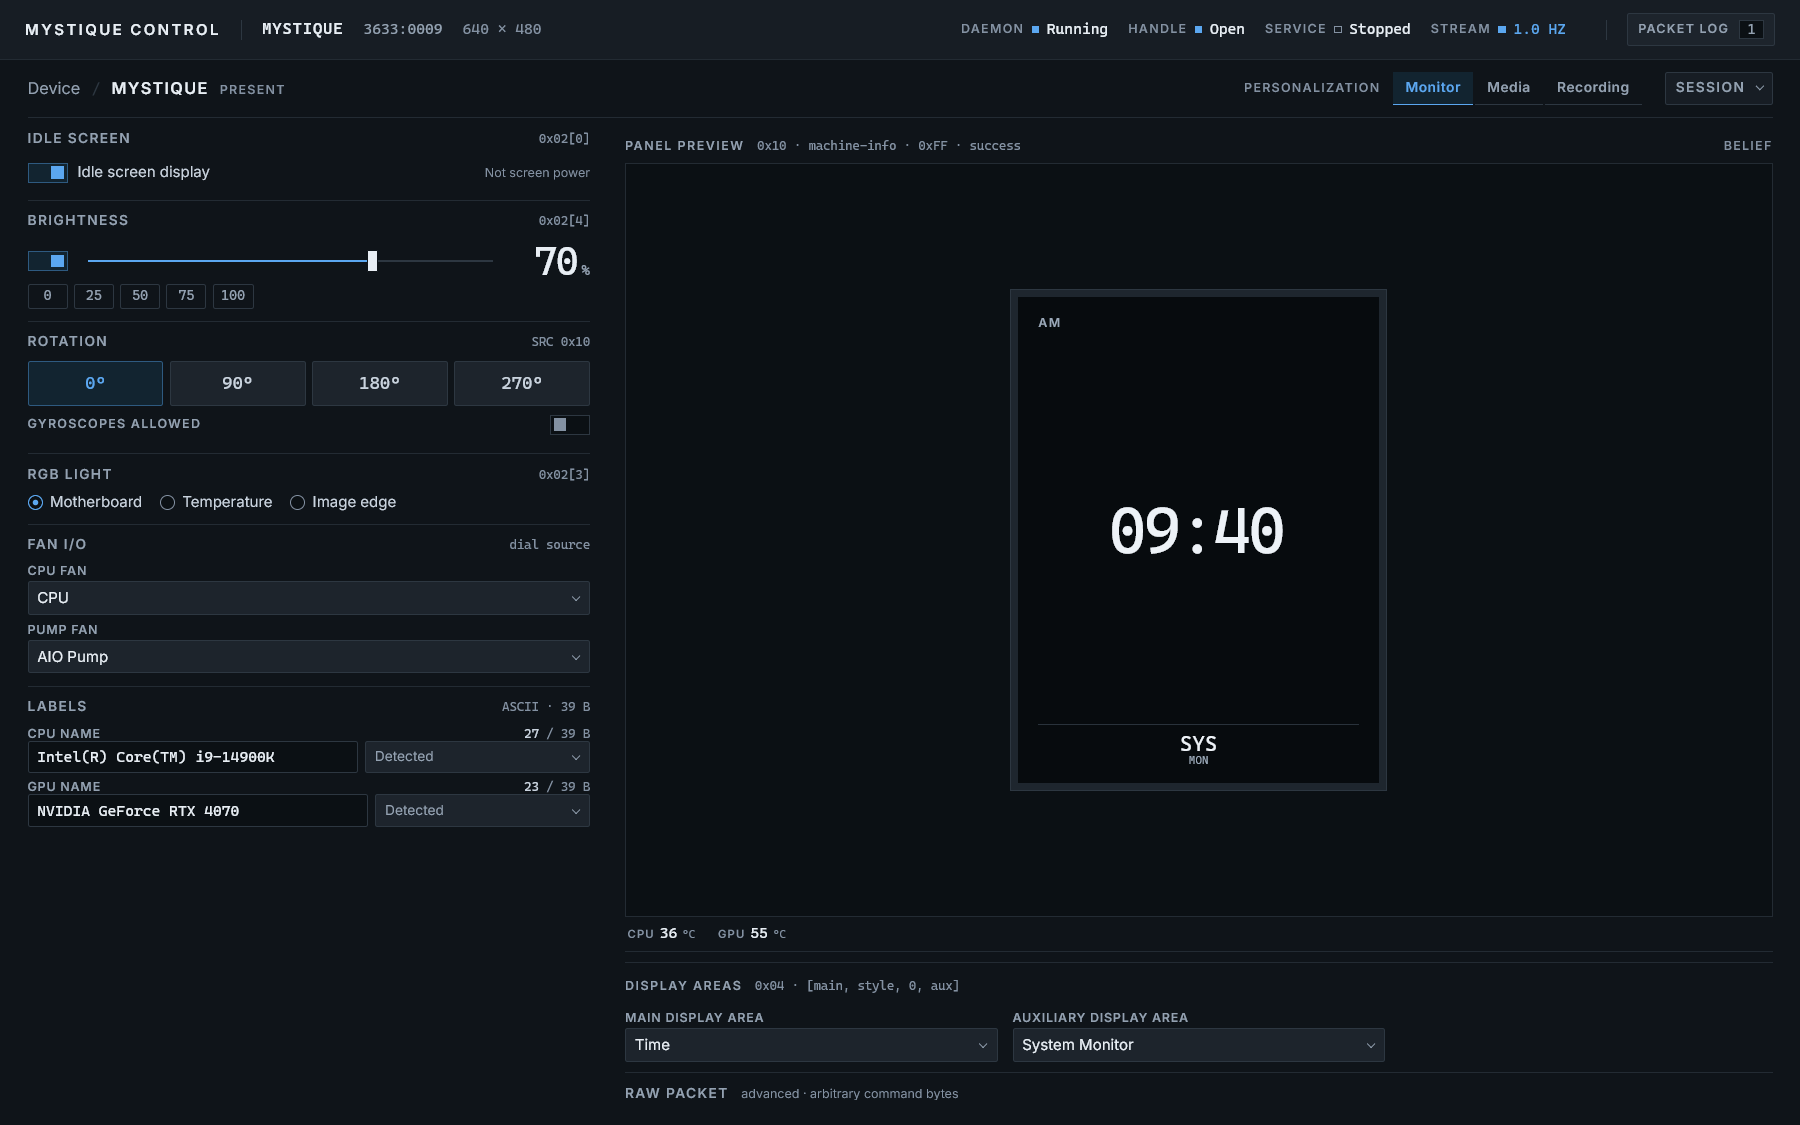
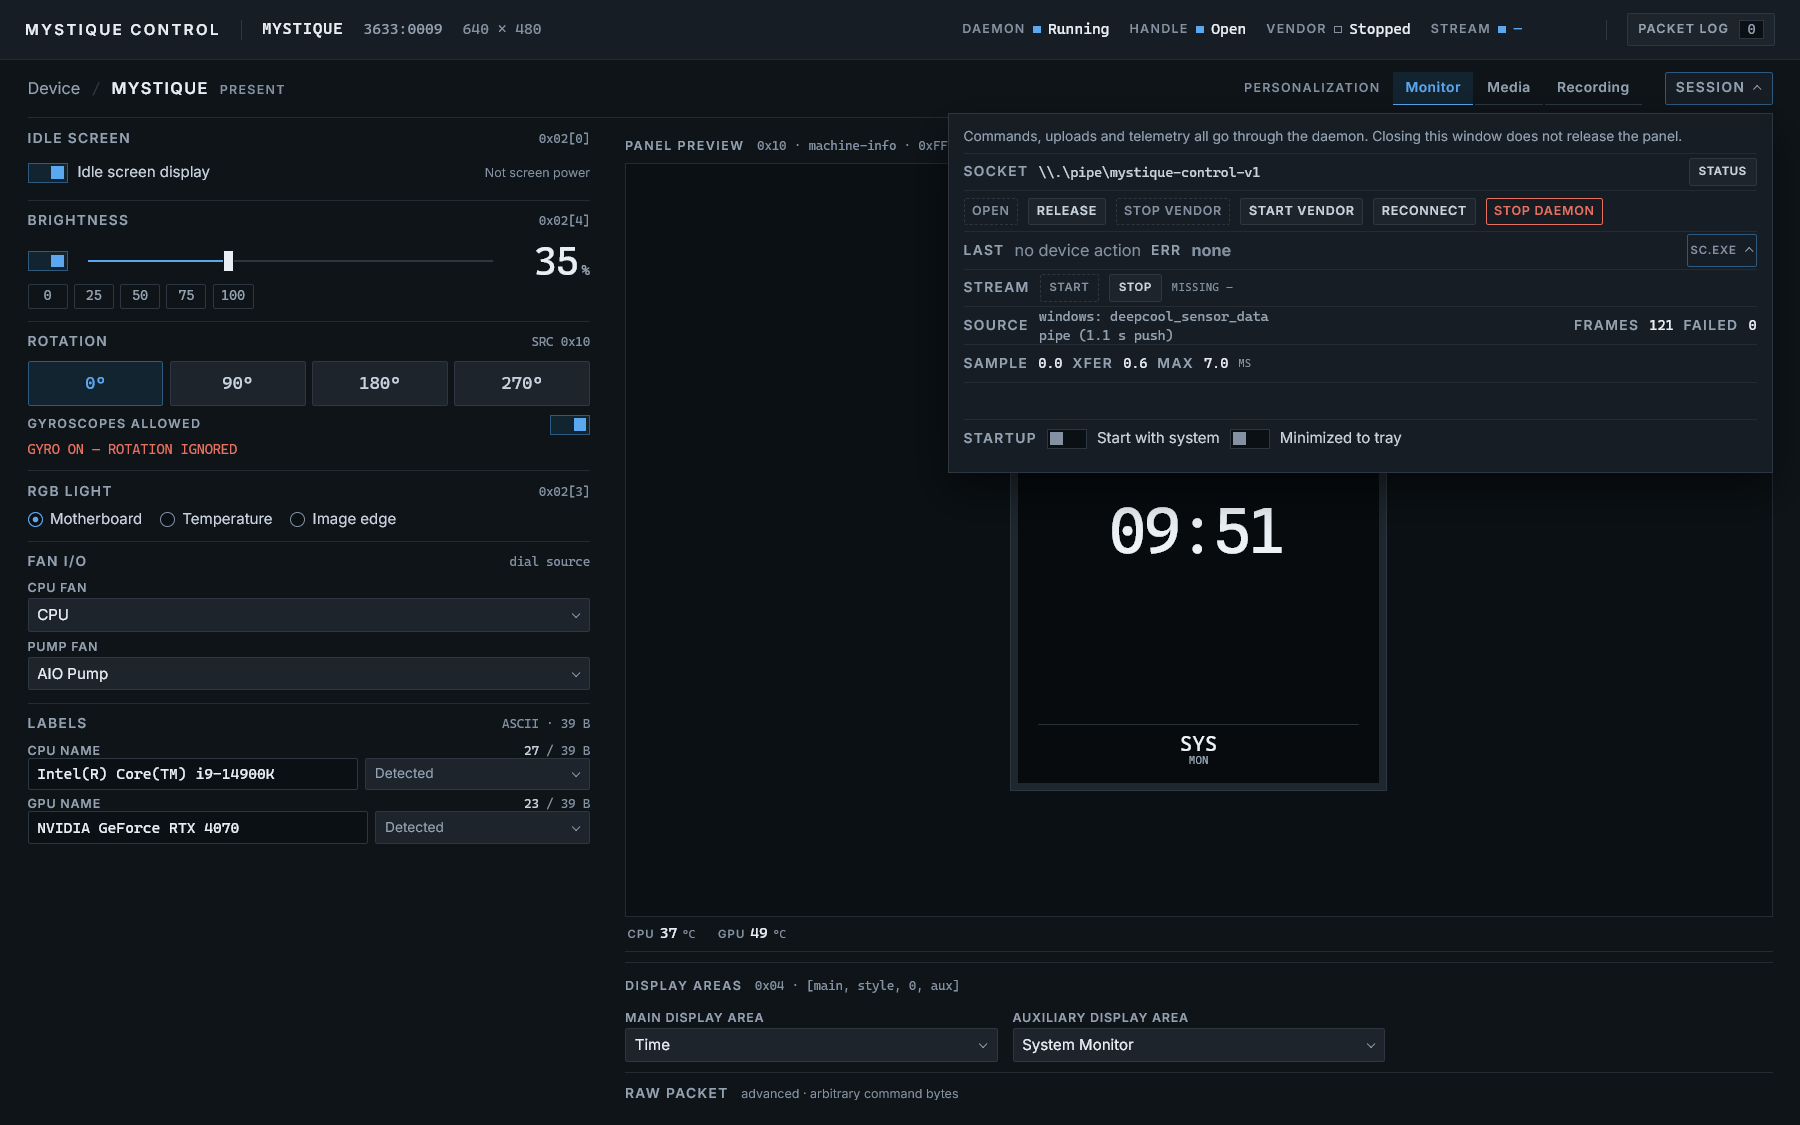
feat(ui): start with system, minimized start, unambiguous vendor lamp
Startup
- The session sheet gains "Start with system" and "Minimized to tray".
  Windows writes HKCU\Software\Microsoft\Windows\CurrentVersion\Run\MystiqueControl
  (no elevation, visible in Task Manager's Startup tab); Linux writes
  ~/.config/autostart/mystique-control.desktop.
- The OS entry is the source of truth: it is read back after every change, so
  removing it by hand is reflected the next time the sheet opens.
- `--minimized` starts hidden. The window is created invisible and only shown
  for a normal launch, so a login start never flashes the window; the tray icon
  is the only visible surface until it is clicked.

Status bar
- The lamp now reads VENDOR instead of SERVICE. It tracks MystiqueService, the
  vendor driver, and "Stopped" is the healthy state while our daemon owns the
  device — the old label read like our own service was down.

Verified through the running window: enabling wrote the Run value, the
minimized switch rewrote it with --minimized, disabling removed it (reg query
fails), and a --minimized launch left the window hidden with the tray present.
408 tests, clippy and fmt clean.

diff --git a/rust/apps/mystique-ui/ui/index.html b/rust/apps/mystique-ui/ui/index.html
@@ -16,7 +16,7 @@
   <span class="grow"></span>
   <div class="indic"><span class="sk">DAEMON</span><span class="lamp" id="daemon-dot"></span><span class="iv" id="daemon-status">Contacting</span></div>
   <div class="indic"><span class="sk">HANDLE</span><span class="lamp" id="handle-dot"></span><span class="iv" id="conn-device-open">unknown</span></div>
-  <div class="indic"><span class="sk">SERVICE</span><span class="lamp" id="service-dot"></span><span class="iv" id="conn-service-running">unknown</span></div>
+  <div class="indic"><span class="sk" title="MystiqueService — the vendor driver">VENDOR</span><span class="lamp" id="service-dot"></span><span class="iv" id="conn-service-running">unknown</span></div>
   <div class="indic" id="stream-badge"><span class="sk">STREAM</span><span class="lamp" id="stream-dot"></span><span class="iv" id="stream-word">—</span></div>
   <span class="vsep"></span>
   <button class="logtoggle" type="button" id="btn-log-toggle" aria-expanded="false" aria-controls="log-drawer">
@@ -83,6 +83,14 @@
           <div class="srow"><div class="sitmsg warn" id="daemon-conflict" hidden><b>Two owners</b><span id="daemon-conflict-text"></span></div><div class="sitmsg warn" id="conn-service-warning" hidden><b>Vendor service holds the device</b><span>stop it to open</span></div></div>
           <p class="sitmsg err" id="conn-error" role="alert" hidden></p>
           <p class="err" id="stream-error" role="alert" hidden></p>
+          <div class="srow">
+            <span class="sk">STARTUP</span>
+            <label class="switch small"><input id="startup-enabled" type="checkbox" aria-label="Start with system"><span class="track" aria-hidden="true"><span class="thumb"></span></span></label>
+            <span class="rowlabel">Start with system</span>
+            <label class="switch small"><input id="startup-minimized" type="checkbox" aria-label="Start minimized to tray"><span class="track" aria-hidden="true"><span class="thumb"></span></span></label>
+            <span class="rowlabel">Minimized to tray</span>
+          </div>
+          <p class="err" id="startup-error" role="alert" hidden></p>
         </div>
       </details>
     </div>

diff --git a/rust/apps/mystique-ui/ui/js/sections.js b/rust/apps/mystique-ui/ui/js/sections.js
@@ -1,7 +1,7 @@
 // Event wiring for the device page. Every control calls the real Tauri command;
 // failures stay inline in the group that caused them.
 
-import { runCommand } from './bridge.js';
+import { readCommand, runCommand } from './bridge.js';
 import { checkedValue, el, setChecked, setDisabled, setHidden, setText } from './dom.js';
 import {
   applyBrightness,
@@ -323,6 +323,38 @@ function bindErase() {
   });
 }
 
+// Startup toggles live in the session sheet. The OS entry is the source of truth: the
+// app reads it back after every change, so removing it by hand is reflected here.
+async function bindStartup() {
+  const enabled = el('startup-enabled');
+  const minimized = el('startup-minimized');
+  if (!enabled || !minimized) return;
+
+  const paint = (state) => {
+    if (!state) return;
+    enabled.checked = Boolean(state.enabled);
+    minimized.checked = Boolean(state.minimized);
+    minimized.disabled = !state.enabled;
+  };
+
+  paint(await readCommand('startup_get'));
+
+  const send = async () => {
+    const state = await runCommand(
+      'startup_set',
+      { enabled: enabled.checked, minimized: minimized.checked },
+      'startup',
+    );
+    paint(state);
+  };
+
+  enabled.addEventListener('change', () => {
+    minimized.disabled = !enabled.checked;
+    void send();
+  });
+  minimized.addEventListener('change', () => { void send(); });
+}
+
 export function bindSections() {
   bindConnection();
   bindBrightness();
@@ -330,6 +362,7 @@ export function bindSections() {
   bindGyro();
   bindIdleScreen();
   bindRgbMode();
+  bindStartup();
   bindFanIo();
   bindRecording();
   bindAreas();

diff --git a/rust/apps/mystique-ui/src/startup.rs b/rust/apps/mystique-ui/src/startup.rs
@@ -1,0 +1,186 @@
+//! Start-with-system and start-minimized, implemented where each OS expects it.
+//!
+//! Windows uses the per-user `Run` key, so no elevation is needed and the entry is
+//! visible in Task Manager's Startup tab like any other application. Linux writes an
+//! XDG autostart `.desktop` file. The window is hidden at launch when the saved command
+//! carries `--minimized`; the tray icon is the only visible surface in that case.
+//!
+//! The registry/file entry is the single source of truth: reading it back means the
+//! toggle cannot drift from reality if someone removes the entry by hand.
+
+use serde::Serialize;
+
+#[derive(Debug, Clone, Copy, PartialEq, Eq, Serialize)]
+pub struct StartupState {
+    pub enabled: bool,
+    pub minimized: bool,
+    /// False on platforms without an implementation; the UI disables the toggles.
+    pub supported: bool,
+}
+
+/// Only the fallback platform builds an "unsupported" value.
+#[cfg(not(any(windows, target_os = "linux")))]
+impl StartupState {
+    const fn unsupported() -> Self {
+        Self {
+            enabled: false,
+            minimized: false,
+            supported: false,
+        }
+    }
+}
+
+/// The command line written into the startup entry. Quoted because the install path
+/// contains spaces.
+fn launch_command(minimized: bool) -> Result<String, String> {
+    let exe =
+        std::env::current_exe().map_err(|error| format!("could not find this exe: {error}"))?;
+    let quoted = format!("\"{}\"", exe.display());
+    Ok(if minimized {
+        format!("{quoted} --minimized")
+    } else {
+        quoted
+    })
+}
+
+#[cfg(windows)]
+mod platform {
+    use std::process::Command;
+
+    use super::StartupState;
+
+    const RUN_KEY: &str = r"HKCU\Software\Microsoft\Windows\CurrentVersion\Run";
+    const VALUE: &str = "MystiqueControl";
+
+    pub fn read() -> StartupState {
+        let output = Command::new("reg")
+            .args(["query", RUN_KEY, "/v", VALUE])
+            .output();
+        let Ok(output) = output else {
+            return StartupState {
+                enabled: false,
+                minimized: false,
+                supported: true,
+            };
+        };
+        let enabled = output.status.success();
+        let text = String::from_utf8_lossy(&output.stdout);
+        StartupState {
+            enabled,
+            minimized: enabled && text.contains("--minimized"),
+            supported: true,
+        }
+    }
+
+    pub fn write(enabled: bool, minimized: bool) -> Result<(), String> {
+        let status = if enabled {
+            let command = super::launch_command(minimized)?;
+            Command::new("reg")
+                .args([
+                    "add", RUN_KEY, "/v", VALUE, "/t", "REG_SZ", "/d", &command, "/f",
+                ])
+                .status()
+        } else {
+            Command::new("reg")
+                .args(["delete", RUN_KEY, "/v", VALUE, "/f"])
+                .status()
+        };
+        match status {
+            Ok(status) if status.success() || !enabled => Ok(()),
+            Ok(status) => Err(format!("reg exited with {status}")),
+            Err(error) => Err(format!("could not run reg: {error}")),
+        }
+    }
+}
+
+#[cfg(target_os = "linux")]
+mod platform {
+    use std::fs;
+    use std::path::PathBuf;
+
+    use super::StartupState;
+
+    fn entry_path() -> Option<PathBuf> {
+        let base = std::env::var_os("XDG_CONFIG_HOME")
+            .map(PathBuf::from)
+            .or_else(|| std::env::var_os("HOME").map(|home| PathBuf::from(home).join(".config")))?;
+        Some(base.join("autostart").join("mystique-control.desktop"))
+    }
+
+    pub fn read() -> StartupState {
+        let Some(path) = entry_path() else {
+            return StartupState {
+                enabled: false,
+                minimized: false,
+                supported: true,
+            };
+        };
+        match fs::read_to_string(&path) {
+            Ok(text) => StartupState {
+                enabled: true,
+                minimized: text.contains("--minimized"),
+                supported: true,
+            },
+            Err(_) => StartupState {
+                enabled: false,
+                minimized: false,
+                supported: true,
+            },
+        }
+    }
+
+    pub fn write(enabled: bool, minimized: bool) -> Result<(), String> {
+        let path = entry_path().ok_or_else(|| "no XDG config directory".to_owned())?;
+        if !enabled {
+            match fs::remove_file(&path) {
+                Ok(()) => return Ok(()),
+                Err(error) if error.kind() == std::io::ErrorKind::NotFound => return Ok(()),
+                Err(error) => return Err(format!("could not remove {}: {error}", path.display())),
+            }
+        }
+        if let Some(parent) = path.parent() {
+            fs::create_dir_all(parent)
+                .map_err(|error| format!("could not create {}: {error}", parent.display()))?;
+        }
+        let command = super::launch_command(minimized)?;
+        let body = format!(
+            "[Desktop Entry]\nType=Application\nName=MYSTIQUE Control\nExec={command}\nX-GNOME-Autostart-enabled=true\n"
+        );
+        fs::write(&path, body)
+            .map_err(|error| format!("could not write {}: {error}", path.display()))
+    }
+}
+
+#[cfg(not(any(windows, target_os = "linux")))]
+mod platform {
+    use super::StartupState;
+
+    pub fn read() -> StartupState {
+        StartupState::unsupported()
+    }
+
+    pub fn write(_enabled: bool, _minimized: bool) -> Result<(), String> {
+        Err("start-with-system is not implemented on this platform".to_owned())
+    }
+}
+
+pub fn read() -> StartupState {
+    platform::read()
+}
+
+pub fn write(enabled: bool, minimized: bool) -> Result<(), String> {
+    platform::write(enabled, minimized)
+}
+
+#[cfg(test)]
+mod tests {
+    use super::*;
+
+    #[test]
+    fn the_launch_line_quotes_the_path_and_carries_the_flag() {
+        let plain = launch_command(false).unwrap();
+        let minimized = launch_command(true).unwrap();
+        assert!(plain.starts_with('"') && plain.ends_with('"'));
+        assert_eq!(minimized, format!("{plain} --minimized"));
+    }
+}

diff --git a/rust/apps/mystique-ui/src/main.rs b/rust/apps/mystique-ui/src/main.rs
@@ -16,6 +16,7 @@ mod daemon;
 mod error;
 mod events;
 mod service;
+mod startup;
 
 use app::AppState;
 use daemon::{Launcher, SpawnRecord};
@@ -42,6 +43,7 @@ fn main() {
         parts.notices,
     );
     let boot = state.clone();
+    let start_hidden = std::env::args().any(|argument| argument == "--minimized");
 
     let built = tauri::Builder::default()
         .plugin(tauri_plugin_dialog::init())
@@ -61,6 +63,14 @@ fn main() {
             );
 
             build_tray(app)?;
+
+            // The window is created hidden so a `--minimized` launch never flashes it.
+            // A normal launch shows it, exactly as before.
+            if !start_hidden {
+                if let Some(window) = app.get_webview_window("main") {
+                    let _ = window.show();
+                }
+            }
 
             // Starting the daemon is a blocking probe, so it never runs on the UI thread
             // or inside this hook. The Connection section shows "Contacting the daemon"
@@ -109,6 +119,8 @@ fn main() {
             commands::telemetry::stop_telemetry,
             commands::telemetry::set_stream_rate,
             commands::telemetry::telemetry_status,
+            commands::startup::startup_get,
+            commands::startup::startup_set,
             commands::upload::plan_upload,
             commands::upload::upload_image,
             commands::upload::upload_gif,

diff --git a/rust/apps/mystique-ui/src/commands/startup.rs b/rust/apps/mystique-ui/src/commands/startup.rs
@@ -1,0 +1,16 @@
+//! Startup toggles. The OS entry is the source of truth, so a change made outside the app
+//! is reflected the next time the sheet opens.
+
+use crate::startup::{self, StartupState};
+
+#[tauri::command]
+pub async fn startup_get() -> Result<StartupState, String> {
+    Ok(startup::read())
+}
+
+/// Writes the OS entry and returns what the OS now reports, not what was requested.
+#[tauri::command]
+pub async fn startup_set(enabled: bool, minimized: bool) -> Result<StartupState, String> {
+    startup::write(enabled, minimized)?;
+    Ok(startup::read())
+}

diff --git a/rust/apps/mystique-ui/src/commands/mod.rs b/rust/apps/mystique-ui/src/commands/mod.rs
@@ -12,6 +12,7 @@ pub mod erase;
 pub mod labels;
 pub mod raw;
 pub mod settings;
+pub mod startup;
 pub mod telemetry;
 pub mod upload;
 

diff --git a/rust/apps/mystique-ui/README.md b/rust/apps/mystique-ui/README.md
@@ -325,6 +325,9 @@ Session disclosure (closed by default; `details#session-details`):
   `stream-achieved`
 - `stream-sample`, `stream-transfer`, `stream-max` (milliseconds, one decimal)
 - `stream-missing`, `stream-error-note`, `stream-error`
+- `startup-enabled`, `startup-minimized` (switches), `startup-error` — write the OS
+  start-with-system entry; the entry is read back after every change, so removing it by
+  hand is reflected next time the sheet opens
 - `conn-error` (inline error)
 - `document.documentElement.dataset.daemon` carries the health code
 
@@ -561,10 +564,19 @@ real named pipe (created by the test) so the pipe name and presence probe cannot
 - Closing the window **does not stop the daemon**. A daemon spawned by the UI is left
   running with the panel held and the stream up; the next window connects to it. Use
   **Stop daemon** to release the panel and stop telemetry deliberately.
-- **Nothing starts at boot.** The UI has no startup entry and the daemon is not a Windows
-  service; `MystiqueService` is `Automatic`, so after a reboot the vendor stack owns the
-  panel again. Making this survive a reboot needs a startup entry plus the vendor service
-  set to `Manual` (or a real service wrapper for the daemon, which does not exist yet).
+- **Start with system** is a switch in the session sheet. Windows writes
+  `HKCU\Software\Microsoft\Windows\CurrentVersion\Run\MystiqueControl` (no elevation, and
+  it appears in Task Manager's Startup tab); Linux writes
+  `~/.config/autostart/mystique-control.desktop`. **Minimized to tray** appends
+  `--minimized` to that entry, and the window is created hidden so a login launch never
+  flashes it. The OS entry is read back after every change, so editing it outside the app
+  is reflected the next time the sheet opens.
+- **The vendor service is not the daemon.** The status-bar lamp labelled `VENDOR` tracks
+  `MystiqueService`; `Stopped` is the healthy state while our daemon owns the device. The
+  lamp used to read `SERVICE`, which read like our own service was down.
+- **Nothing else starts at boot.** `MystiqueService` is `Automatic`, so after a reboot the
+  vendor stack takes the panel unless it is set to `Manual`; the start-with-system toggle
+  only starts our window, which then needs the device free.
 - The request timeout is 10 seconds. A live `status` read on a wedged panel is the case it
   exists for; the client drops the link and reconnects rather than waiting forever.
 - The daemon still implements `set_stream_rate`, but the UI no longer exposes it. The
